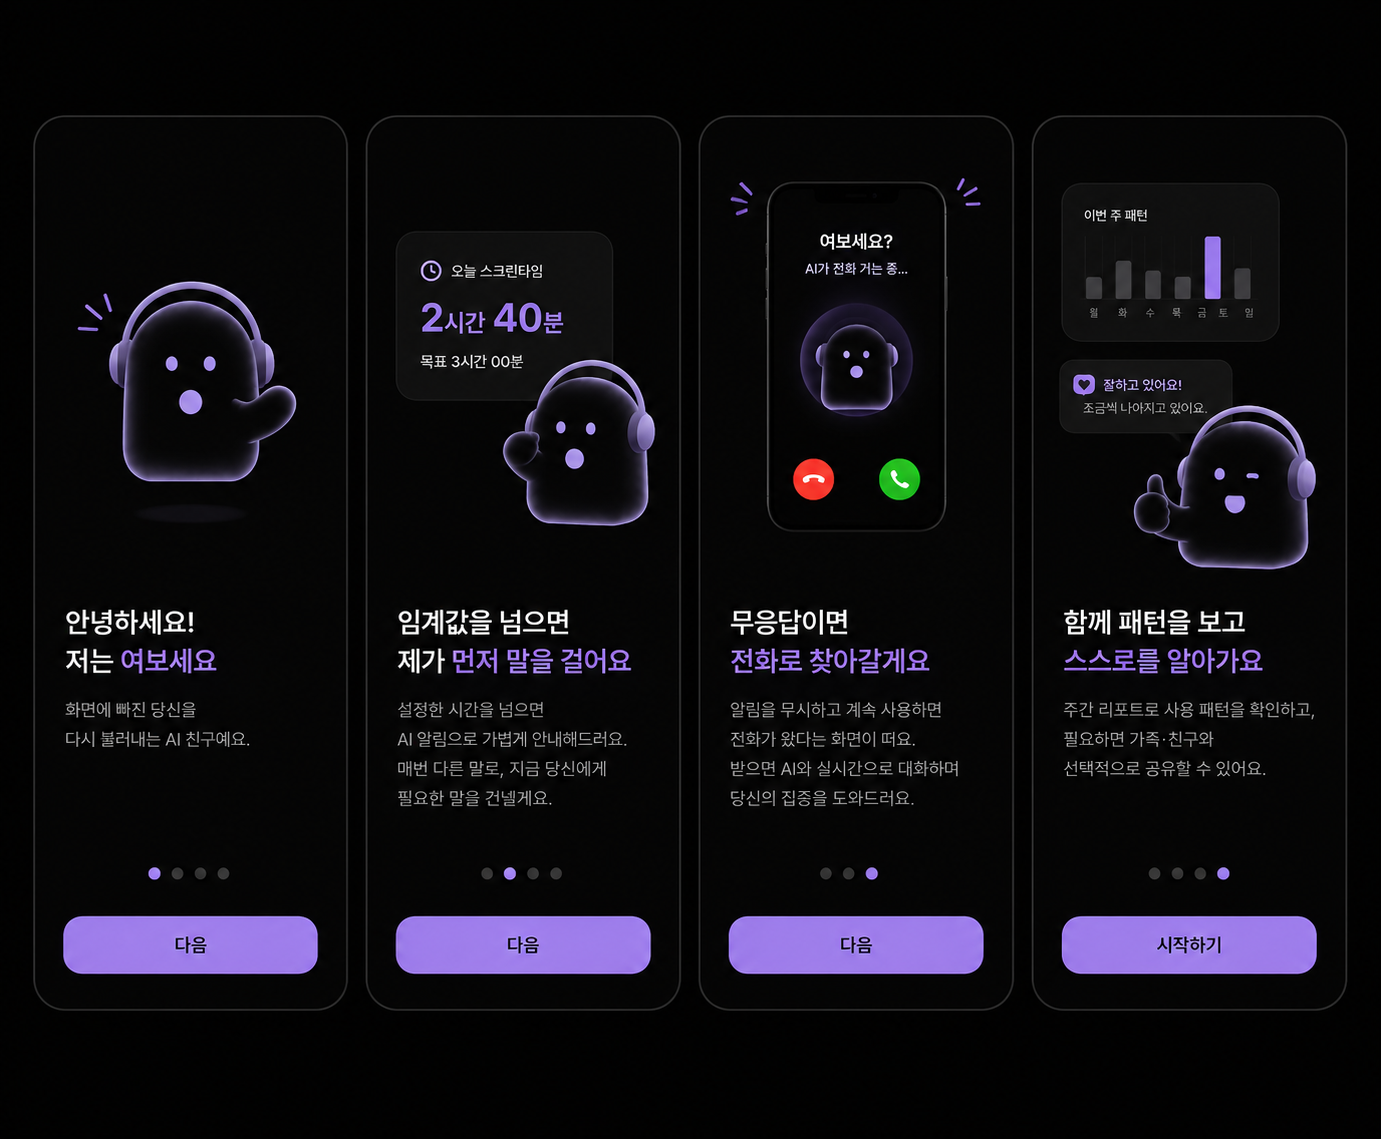
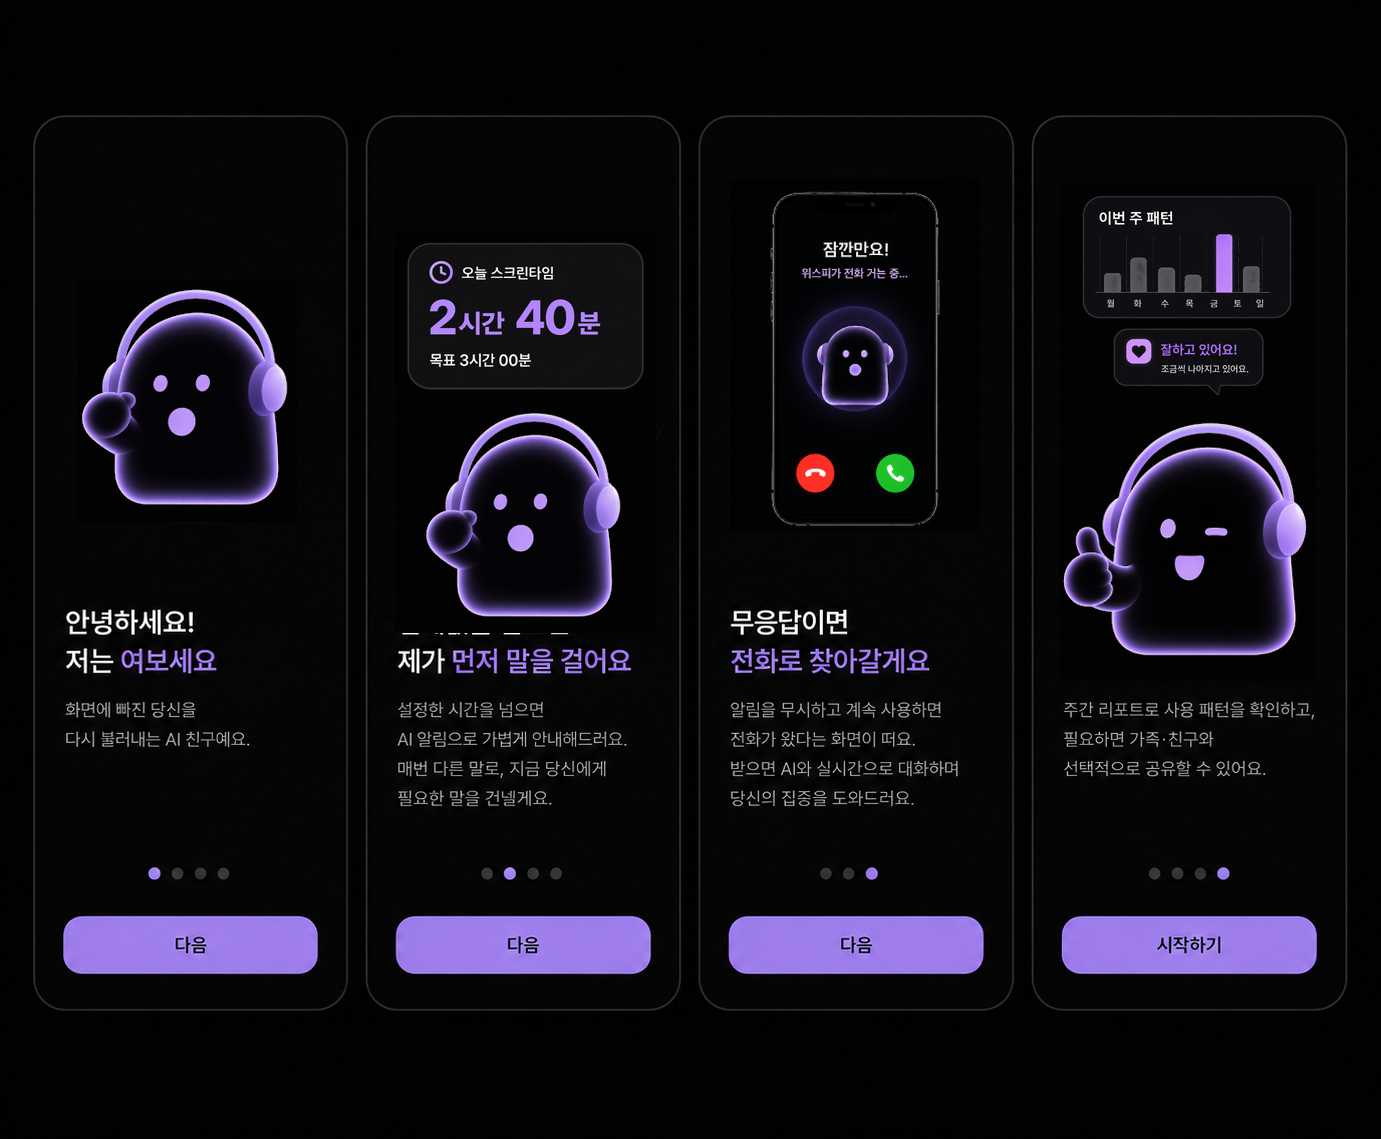
feat: 온보딩/홈 마스코트 이미지를 Figma 원본 에셋으로 교체
- 홈 화면 상단 우측 떠다니는 이미지를 유령이미지1로 교체
- 온보딩 시작 화면(1단계) 이미지를 1차 초안 섹션 이미지12로 교체
- 온보딩 마지막 화면(전화거는위스피) 이미지를 Figma 79:5 원본으로 교체
- 스프라이트 크롭 방식 대신 투명 배경 개별 에셋을 사용해 비율 왜곡 없이 표시

Claude-Session: https://claude.ai/code/session_0119MqCyfZq7W3ADtPbNwW7j

diff --git a/frontend/src/pages/onboarding/Onboarding.jsx b/frontend/src/pages/onboarding/Onboarding.jsx
@@ -8,11 +8,12 @@ import OnboardingPersonalize from './OnboardingPersonalize'
 import OnboardingInstall from './OnboardingInstall'
 import OnboardingReady from './OnboardingReady'
 
-// 이미지가 있는 온보딩 단계마다 원본 크롭 비율(w/h)은 유지한 채, 세로 폭을
-// 250px로 통일해 단계를 넘길 때 마스코트 크기가 들쭉날쭉해 보이지 않게 한다.
-const STEP2_CROP = { containerW: 222, containerH: 250, w: '471.8%', h: '346.15%', left: '-127.21%', top: '-67.1%' }
-const STEP3_CROP = { containerW: 224, containerH: 310, w: '451.4%', h: '269.25%', left: '-339.74%', top: '-38.69%' }
-const STEP3_SLOT = { width: 240, height: 310 }
+// 컨테이너 크기를 onboarding-composite.png 안 해당 카드의 실제 픽셀 크기와 동일하게 맞춰서
+// (1:1 스케일) 카드가 잘리지 않고 원본 그대로 보이게 한다.
+const STEP2_CROP = { containerW: 261, containerH: 402, w: '529.12%', h: '283.33%', left: '-151.34%', top: '-57.46%' }
+const STEP2_SLOT = { width: 261, height: 402 }
+const STEP3_CROP = { containerW: 250, containerH: 400, w: '443.69%', h: '228.71%', left: '-331.44%', top: '-36.75%' }
+const STEP3_SLOT = { width: 250, height: 400 }
 
 export default function Onboarding({ onComplete }) {
   const [step, setStep] = useState(0)
@@ -48,6 +49,7 @@ export default function Onboarding({ onComplete }) {
         {step === 1 && (
           <OnboardingInfo
             crop={STEP2_CROP}
+            slotSize={STEP2_SLOT}
             heading="정한 시간을 넘으면"
             headingAccent="위스피가 당신에게 찾아가요"
             description={

diff --git a/frontend/src/pages/onboarding/OnboardingReady.jsx b/frontend/src/pages/onboarding/OnboardingReady.jsx
@@ -1,20 +1,15 @@
-import onboardingComposite from '../../assets/illustrations/onboarding-composite.png'
+import callingWispy from '../../assets/illustrations/calling-wispy.png'
 import ProgressDots from '../../components/ProgressDots'
 import OnboardingActions from '../../components/OnboardingActions'
 
 export default function OnboardingReady({ onComplete }) {
   return (
     <div className="flex h-full flex-col px-6 pb-8 pt-6">
-      <div className="no-scrollbar flex min-h-0 flex-1 flex-col items-center justify-center overflow-y-auto">
-        <div className="relative h-[250px] w-[195px] overflow-hidden rounded-[29px]">
-          <img
-            src={onboardingComposite}
-            alt="위스피가 전화를 거는 화면 미리보기"
-            className="absolute max-w-none h-[285.87%] w-[443.87%]"
-            style={{ left: '-225.3%', top: '-39.85%' }}
-          />
-        </div>
-      </div>
+      <img
+        src={callingWispy}
+        alt="위스피가 전화를 거는 화면 미리보기"
+        className="my-auto w-full max-w-[330px] self-center"
+      />
 
       <div className="flex flex-col gap-6">
         <ProgressDots total={8} activeIndex={7} />

diff --git a/frontend/src/pages/onboarding/OnboardingIntro.jsx b/frontend/src/pages/onboarding/OnboardingIntro.jsx
@@ -1,4 +1,4 @@
-import onboardingComposite from '../../assets/illustrations/onboarding-composite.png'
+import onboardingImage12 from '../../assets/illustrations/onboarding1-image12.png'
 import ProgressDots from '../../components/ProgressDots'
 import OnboardingActions from '../../components/OnboardingActions'
 
@@ -8,14 +8,7 @@ export default function OnboardingIntro({ onNext }) {
       <div className="no-scrollbar flex min-h-0 flex-1 flex-col items-center justify-center gap-7 overflow-y-auto text-center">
         <h1 className="text-[32px] font-semibold text-white">잠깐만요!</h1>
 
-        <div className="relative h-[250px] w-[226px] overflow-hidden rounded-[29px]">
-          <img
-            src={onboardingComposite}
-            alt="위스피 마스코트"
-            className="absolute max-w-none h-[409.83%] w-[550.49%]"
-            style={{ left: '-24.02%', top: '-89.87%' }}
-          />
-        </div>
+        <img src={onboardingImage12} alt="위스피 마스코트" className="w-full max-w-[226px]" />
 
         <p className="text-[17px] leading-[1.6] text-[#919191]">
           화면에 빠진 당신을

diff --git a/frontend/src/pages/Home.jsx b/frontend/src/pages/Home.jsx
@@ -1,6 +1,6 @@
 import { useEffect, useState } from 'react'
 import BottomNav from '../components/BottomNav'
-import homeGreetingMascot from '../assets/illustrations/home-greeting-mascot.png'
+import homeGreetingMascot from '../assets/illustrations/ghost-image-1.png'
 import { getApp } from '../apps'
 import { getPersona } from '../personas'
 
@@ -67,13 +67,8 @@ export default function Home({
               저와 잠깐 <span className="text-accent">다른 얘기</span> 해볼까요?
             </p>
           </div>
-          <div className="animate-float relative h-[130px] w-[115px] shrink-0 overflow-hidden rounded-2xl">
-            <img
-              src={homeGreetingMascot}
-              alt="위스피 마스코트"
-              className="absolute max-w-none h-[547.18%] w-[286.24%]"
-              style={{ left: '-144.30%', top: '-64.43%' }}
-            />
+          <div className="animate-float ml-3 flex h-[130px] w-[115px] shrink-0 items-center justify-center">
+            <img src={homeGreetingMascot} alt="위스피 마스코트" className="h-auto w-full" />
           </div>
         </div>
 
